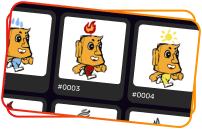
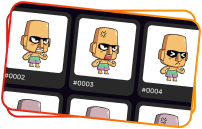
feat: update nft collection image, fix typo

diff --git a/src/modules/index/faq/index.tsx b/src/modules/index/faq/index.tsx
@@ -16,62 +16,24 @@ export const faq = [
   {
     question: "2. Which blockchain is Wicked Moai on?",
     answer:
-      "zkSync. Consider as the best chain for on-chain game as its ability to offer fast and cheap transactions, Ethereum security, EVM compatible.",
+      "Considered the best option for on-chain games thanks to its ability to offer fast and low-cost transactions, Ethereum security, and EVM compatibility, the answer is zkSync.",
   },
   {
     question: "3. How is the on-chain game world utilized in Wicked Moai?",
-    answer: (
-      <>
-        The Wicked Moai development team aim to build an on-chain game world
-        that take advantage of the unique gameplay that blockchain offers:
-        <ul>
-          <li>- More transparency and security in the game's economy</li>
-          <li>
-            - Allow each individual player full autonomy for decentralized
-            governance and decision-making
-          </li>
-        </ul>
-      </>
-    ),
+    answer: "The Wicked Moai development team aims to build an on-chain game world that takes advantage of the unique gameplay that blockchain has to offer - more transparency and security for in-game economy, and full autonomy or individual players that contributes to decentralized governance.",
   },
   {
     question: "4. What is Wicked Moai's token?",
-    answer: (
-      <>
-        $MOAI. Token utitilies:
-        <ul>
-          <li>- In-game economy</li>
-          <li>- game world grands</li>
-          <li>- Trading</li>
-          <li>- Reward</li>
-          <li>- Governance</li>
-        </ul>
-      </>
-    ),
+    answer: "Wicked Moai's token is the $MOAI, with utilities include the in-game economy, trading purposes, community rewards, governance purposes, and token grants for game world contributors.",
   },
   {
     question: "5. What types of NFTs are available in Wicked Moai?",
-    answer: (
-      <>
-        NFTs collectible and in-game NFTs
-        <ul>
-          <li>
-            - NFT collectibles: Sui generis Wicked Moai NFTs collection,
-            initiate ownership, community membership and other benefits for
-            holders.
-          </li>
-          <li>
-            - In-game NFT: Designed separatedly for each game in Wicked Moai
-            World for gaming purposes.
-          </li>
-        </ul>
-      </>
-    ),
+    answer: "NFT collectibles and in-game NFTs, with NFT collectibles offering community membership and various benefits for holders, while in-game NFTs act as a centerpiece of the game.",
   },
   {
-    question: "6. How many NFTs available in the collection?",
+    question: "6. How many NFTs are available in the collection?",
     answer:
-      "10430 Moai NFTs, devided into 5 different tribes with distictive backstories, representing 5 powers: Wind, Earth, Water, Fire and Light.",
+      "There are 10,430 Wicked Moai NFTs in total, dividing into 5 tribes with different backstories, representing Earth, Water, Fire, Air, and Light.",
   },
   {
     question:
@@ -142,7 +104,7 @@ export function FAQ() {
       <div className="container relative z-10 bg-transparent">
         <FadeEffect show={show} y={-50}>
           <h1 className="text-[48px] font-[500] mb-[30px]">
-            Frequent Asked Questions
+            Frequently Asked Questions
           </h1>
         </FadeEffect>
 

diff --git a/src/modules/index/evil-club/index.tsx b/src/modules/index/evil-club/index.tsx
@@ -3,23 +3,23 @@ import { FadeEffect } from "@/uikit/animation/fade-effect";
 import { ExternalLink } from "@/uikit/external-link";
 import { DiscordIcon } from "@/uikit/icons/discord-icon";
 import clsx from "clsx";
-import { Pagination, Autoplay } from "swiper";
+import { Pagination } from "swiper";
 import { Swiper, SwiperSlide } from "swiper/react";
 import { HomeSection } from "../const";
 import { useScreenActive } from "../ctx";
 import styles from "./evil-club.module.scss";
 
 export const creators = [
-  { name: 'Tongariki', avatar: '/assets/creator-1.png', title: 'Senior artist', summary: '7+ years in gaming' },
-  { name: 'Akivi', avatar: '/assets/creator-2.png', title: 'Tech lead', summary: '10+ years in gaming' },
-  { name: 'Nau Nau', avatar: '/assets/creator-3.png', title: 'Music & audio', summary: '5+ years in gaming' },
-  { name: 'Vinapu', avatar: '/assets/creator-4.png', title: 'Blockchain lead', summary: '7+ years in gaming' },
-  { name: 'Tahai', avatar: '/assets/creator-5.png', title: 'Vfx, animation', summary: '5+ years in gaming' },
+  { name: 'Tongariki', avatar: '/assets/creator-1.png', title: 'Senior Artist', summary: '7+ years in gaming' },
+  { name: 'Akivi', avatar: '/assets/creator-2.png', title: 'Tech Leader', summary: '10+ years in gaming' },
+  { name: 'Nau Nau', avatar: '/assets/creator-3.png', title: 'Music & Audio', summary: '5+ years in gaming' },
+  { name: 'Vinapu', avatar: '/assets/creator-4.png', title: 'Blockchain Lead', summary: '7+ years in gaming' },
+  { name: 'Tahai', avatar: '/assets/creator-5.png', title: 'VFX & Animation', summary: '5+ years in gaming' },
   { name: 'Te Pito Kura', avatar: '/assets/creator-6.png', title: 'Marketing', summary: '5+ years in gaming' },
   { name: 'Ko Te Riku', avatar: '/assets/creator-7.png', title: 'Finance', summary: '10+ years in gaming' },
-  { name: 'Hanga Tetenga', avatar: '/assets/creator-2.png', title: 'Lead art', summary: '8+ years in gaming' },
-  { name: 'Akahanga', avatar: '/assets/creator-1.png', title: 'Project manager', summary: '12+ years in gaming' },
-  { name: 'O\'Pepe', avatar: '/assets/creator-3.png', title: 'QA/QC leader', summary: '7+ years in gaming' },
+  { name: 'Hanga Tetenga', avatar: '/assets/creator-2.png', title: 'Art Lead', summary: '8+ years in gaming' },
+  { name: 'Akahanga', avatar: '/assets/creator-1.png', title: 'Project Manager', summary: '12+ years in gaming' },
+  { name: 'O\'Pepe', avatar: '/assets/creator-3.png', title: 'QA/QC Leader', summary: '7+ years in gaming' },
 ]
 
 export function EvilClub() {

diff --git a/src/modules/index/main-slider/main-slider.tsx b/src/modules/index/main-slider/main-slider.tsx
@@ -34,7 +34,7 @@ export const mainSliders = [
     power: "Airbending, Flying, Super speed",
     amount: 2500,
     traits: ["Everywhere and nowhere", "Invisible"],
-    desc: "The Adina tribe were ancient airbenders who received super speed, flight, and airbending powers. They can be present everywhere, detect unauthorized behavior anytime.",
+    desc: "The Adina tribe was ancient airbenders who received super speed, flying, and airbending powers. They can be present everywhere, detecting unauthorized behavior anytime.",
   },
   {
     backgroundImg: "/assets/bg-moai3.png",
@@ -43,7 +43,7 @@ export const mainSliders = [
     founder: "333 BC",
     power: "Energy Blast, Animal Creation & Shifting, Invulnerability",
     amount: 2450,
-    traits: ["Smooth", "Gentle", "Flow", "Divine strength", "Calm"],
+    traits: ["Controlling", "Powerful", "Arrogant"],
     desc: "The Agni tribe representing Fire was a peaceful yet occasionally arrogant group of enablers who have the connection so powerful that they can create energy blasts, perform animal creation and shifting, and they possess invulnerability. ",
   },
   {
@@ -54,7 +54,7 @@ export const mainSliders = [
     power: "Electricity, Barrier Creation, Mind-reading",
     amount: 1700,
     traits: ["Celestial", "Well-being", "Glow", "Subtle & Strong"],
-    desc: "The Aegle tribe possesses a vital component that symbolizes both civilization and life: light. They possess the ability to generate thunderbolts, construct barriers, and discern the thoughts of their adversaries. Aegle is synonymous with both insight and sagacity.",
+    desc: "The Aegle possessed a vital component that symbolizes both civilization and life: light. They held the ability to generate thunderbolts, create barriers, and read minds. Agle is synonymous with both insight and sagacity.",
   },
   {
     backgroundImg: "/assets/bg-moai5.png",
@@ -257,7 +257,7 @@ export function MainSlider() {
               style={{ background: "url(/assets/slogan-mask.png)" }}
               className="pointer-events-auto bg-cover bg-no-repeat w-[760px] h-[80px] flex justify-center items-center text-[32px] font-[500]"
             >
-              First fully on-chain game world on zkSync Era.
+              First fully on-chain game world on zkSync Era
             </div>
             {/* <img className='w-full' src='/assets/slogan.png' /> */}
           </div>

diff --git a/src/modules/index/nft-collection/index.tsx b/src/modules/index/nft-collection/index.tsx
@@ -62,8 +62,7 @@ export function NftCollection() {
             </FadeEffect>
             <FadeEffect show={show} x={-100}>
               <div className="text-white/80 mb-[40px]">
-                Be a part of a rich and historic collection while immersing in
-                the game world.
+                Be part of a rich and historical collection while immersing in the legendary game world.
               </div>
             </FadeEffect>
             <FadeEffect show={show} y={50}>
@@ -83,8 +82,7 @@ export function NftCollection() {
                   <div className="flex-1 flex flex-col gap-[10px]">
                     <div className="text-[24px]">NFT collectibles</div>
                     <div className="text-white/50 text-[14px] w-full">
-                      Special NFT collectible for special user to unlock special
-                      features
+                      Unique NFT collectibles for users to unlock exclusive features
                     </div>
                     <div>
                       <ExternalLink href={DISCORD_URL}>
@@ -105,8 +103,7 @@ export function NftCollection() {
                   <div className="flex-1 flex flex-col gap-[10px]">
                     <div className="text-[24px]">Consumption NFT</div>
                     <div className="text-white/50 text-[14px] w-full">
-                      Own NFT to navigate Wicked Moai game world and enjoy
-                      exciting game play
+                      Own an NFT to explore the Wicked Moai game world and enjoy exciting gameplay
                     </div>
                     <div className="flex items-center gap-4 lg:flex-col xl:flex-row">
                       <Link
@@ -163,11 +160,11 @@ export function NftCollection() {
                         slidesPerView: 3,
                       },
                     }}
-                  autoplay={{
-                    reverseDirection: true,
-                    delay: 2000,
-                    disableOnInteraction: false,
-                  }}
+                    autoplay={{
+                      reverseDirection: true,
+                      delay: 2000,
+                      disableOnInteraction: false,
+                    }}
                   >
                     {collection1.map((item, idx) => (
                       <SwiperSlide key={idx}>

diff --git a/src/modules/index/end/index.tsx b/src/modules/index/end/index.tsx
@@ -46,15 +46,15 @@ export function End() {
 
               </FadeEffect>
               <FadeEffect show={show} x={-30}>
-                <Link className='hover:text-[var(--m-clr-text-orange)]' href={`/?section=${HomeSection.ONCHAIN_GAME}`}>On-chain game</Link>
+                <Link className='hover:text-[var(--m-clr-text-orange)]' href={`/?section=${HomeSection.ONCHAIN_GAME}`}>On-chain Game</Link>
 
               </FadeEffect>
               <FadeEffect show={show} x={-25}>
-                <Link className='hover:text-[var(--m-clr-text-orange)]' href={`/?section=${HomeSection.EVIL_CLUB}`}>Moai club</Link>
+                <Link className='hover:text-[var(--m-clr-text-orange)]' href={`/?section=${HomeSection.EVIL_CLUB}`}>Moai Club</Link>
               </FadeEffect>
 
               <FadeEffect show={show} x={-20}>
-                <Link className='hover:text-[var(--m-clr-text-orange)]' href={`/?section=${HomeSection.MOAI_TOKEN}`}>$Moai</Link>
+                <Link className='hover:text-[var(--m-clr-text-orange)]' href={`/?section=${HomeSection.MOAI_TOKEN}`}>$MOAI</Link>
               </FadeEffect>
 
               <FadeEffect show={show} x={-15}>

diff --git a/components/mobile/main/nft-collection.tsx b/components/mobile/main/nft-collection.tsx
@@ -30,7 +30,7 @@ const NftCollection = ({ nftCollectionRef }: any) => {
         NFT collectibles
       </div>
       <p className="text-[14px] leading-[22px] mt-2 mx-auto text-center w-full px-5 max-w-[310px] opacity-80">
-        Special NFT collectible for special user to unlock special features
+        Unique NFT collectibles for users to unlock exclusive features
       </p>
       <div className="mt-5 text-center">
         <ExternalLink href={DISCORD_URL}>
@@ -50,7 +50,7 @@ const NftCollection = ({ nftCollectionRef }: any) => {
         Consumption NFT
       </div>
       <p className="text-[14px] leading-[22px] mt-2 mx-auto text-center w-full px-5 max-w-[310px] opacity-80">
-        Own NFT to navigate Wicked Moai game world and enjoy exciting game play
+        Own an NFT to explore the Wicked Moai game world and enjoy exciting gameplay
       </p>
       <div className="px-5 grid grid-cols-2 gap-[12px] mt-5">
         <Link href={`/?section=${HomeSection.ONCHAIN_GAME}`}>

diff --git a/components/mobile/main/header.tsx b/components/mobile/main/header.tsx
@@ -13,10 +13,10 @@ import { useEffect, useState } from "react";
 const navItems = [
   { label: "Storytelling", sec: HomeSection.STORY_TELLING },
   { label: "NFT Collection", sec: HomeSection.NFT_COLLECTION },
-  { label: "On-chain game", sec: HomeSection.ONCHAIN_GAME },
-  { label: "Moai club", sec: HomeSection.EVIL_CLUB },
-  { label: "$Moai", sec: HomeSection.MOAI_TOKEN },
-  { label: "Road map", sec: HomeSection.ROADMAP },
+  { label: "On-chain Game", sec: HomeSection.ONCHAIN_GAME },
+  { label: "Moai Club", sec: HomeSection.EVIL_CLUB },
+  { label: "$MOAI", sec: HomeSection.MOAI_TOKEN },
+  { label: "Roadmap", sec: HomeSection.ROADMAP },
   { label: "Litepaper", sec: "" },
   { label: "FAQ", sec: HomeSection.FAQ },
 ];

diff --git a/src/uikit/header/header.tsx b/src/uikit/header/header.tsx
@@ -11,10 +11,10 @@ import { LITEPAPER } from "@/const/config";
 const navItems = [
   { label: "Storytelling", sec: HomeSection.STORY_TELLING },
   { label: "NFT Collection", sec: HomeSection.NFT_COLLECTION },
-  { label: "On-chain game", sec: HomeSection.ONCHAIN_GAME },
-  { label: "Moai club", sec: HomeSection.EVIL_CLUB },
-  { label: "$Moai", sec: HomeSection.MOAI_TOKEN },
-  { label: "Road map", sec: HomeSection.ROADMAP },
+  { label: "On-chain Game", sec: HomeSection.ONCHAIN_GAME },
+  { label: "Moai Club", sec: HomeSection.EVIL_CLUB },
+  { label: "$MOAI", sec: HomeSection.MOAI_TOKEN },
+  { label: "Roadmap", sec: HomeSection.ROADMAP },
   { label: "Litepaper", sec: "" },
   { label: "FAQ", sec: HomeSection.FAQ },
 ];

diff --git a/src/modules/index/road-map/index.tsx b/src/modules/index/road-map/index.tsx
@@ -22,8 +22,7 @@ export function RoadMap() {
 
                 <FadeEffect show={show} x={-50}>
                   <div className='flex gap-4 flex-col-reverse mb-[40px]'>
-                    <div className='rounded-[24px] border border-[#FC9303] p-[20px]'>Airdrop, KOLs networking,
-                      Game Release, Staking&trading rewards, TGE</div>
+                    <div className='rounded-[24px] border border-[#FC9303] p-[20px]'>Airdrop, KOLs Networking, Game Release, Staking & Trading Rewards, TGE</div>
                     <div className='text-highlight text-center text-[20px] font-[500]'>Community Development</div>
                   </div>
                 </FadeEffect>

diff --git a/components/mobile/main/moai-token.tsx b/components/mobile/main/moai-token.tsx
@@ -14,7 +14,7 @@ const MoaiToken = ({ moaiTokenRef }: any) => {
   return (
     <div className="pt-[60px]" ref={moaiTokenRef}>
       <div className="text-[32px] leading-[38px] text-center font-[500]">
-        $Moai
+        $MOAI
       </div>
       <p className="mt-3 text-[14px] leading-[22px] text-center px-5 max-w-[366px] mx-auto opacity-80">
         The $MOAI powers the Wicked Moai ecosystem's blockchain-based game

diff --git a/src/modules/index/on-chain-game/index.tsx b/src/modules/index/on-chain-game/index.tsx
@@ -63,7 +63,7 @@ export function OnChainGame() {
           <div className="flex items-baseline gap-2">
             <h1 className="text-[48px] font-[500]">Wicked Moai</h1>
             <div className="text-[20px] text-[#E76F16]">
-              Join the Wicked Moai game world fully on-chain.
+              Join the fully on-chain Wicked Moai game world.
             </div>
           </div>
           {/* </FadeEffect> */}

diff --git a/components/mobile/main/asked-question.tsx b/components/mobile/main/asked-question.tsx
@@ -33,7 +33,7 @@ const AskedQuestion = ({ askQuestionRef }: any) => {
   return (
     <div className="pt-[60px]" ref={askQuestionRef}>
       <div className="max-w-[366px] mx-auto text-[32px] leading-[38px] text-center font-[500]">
-        Frequent Asked Quetions
+        Frequently Asked Questions
       </div>
       <div className="px-5 mt-[12px]">
         {faq?.map((item: any, index: number) => {
